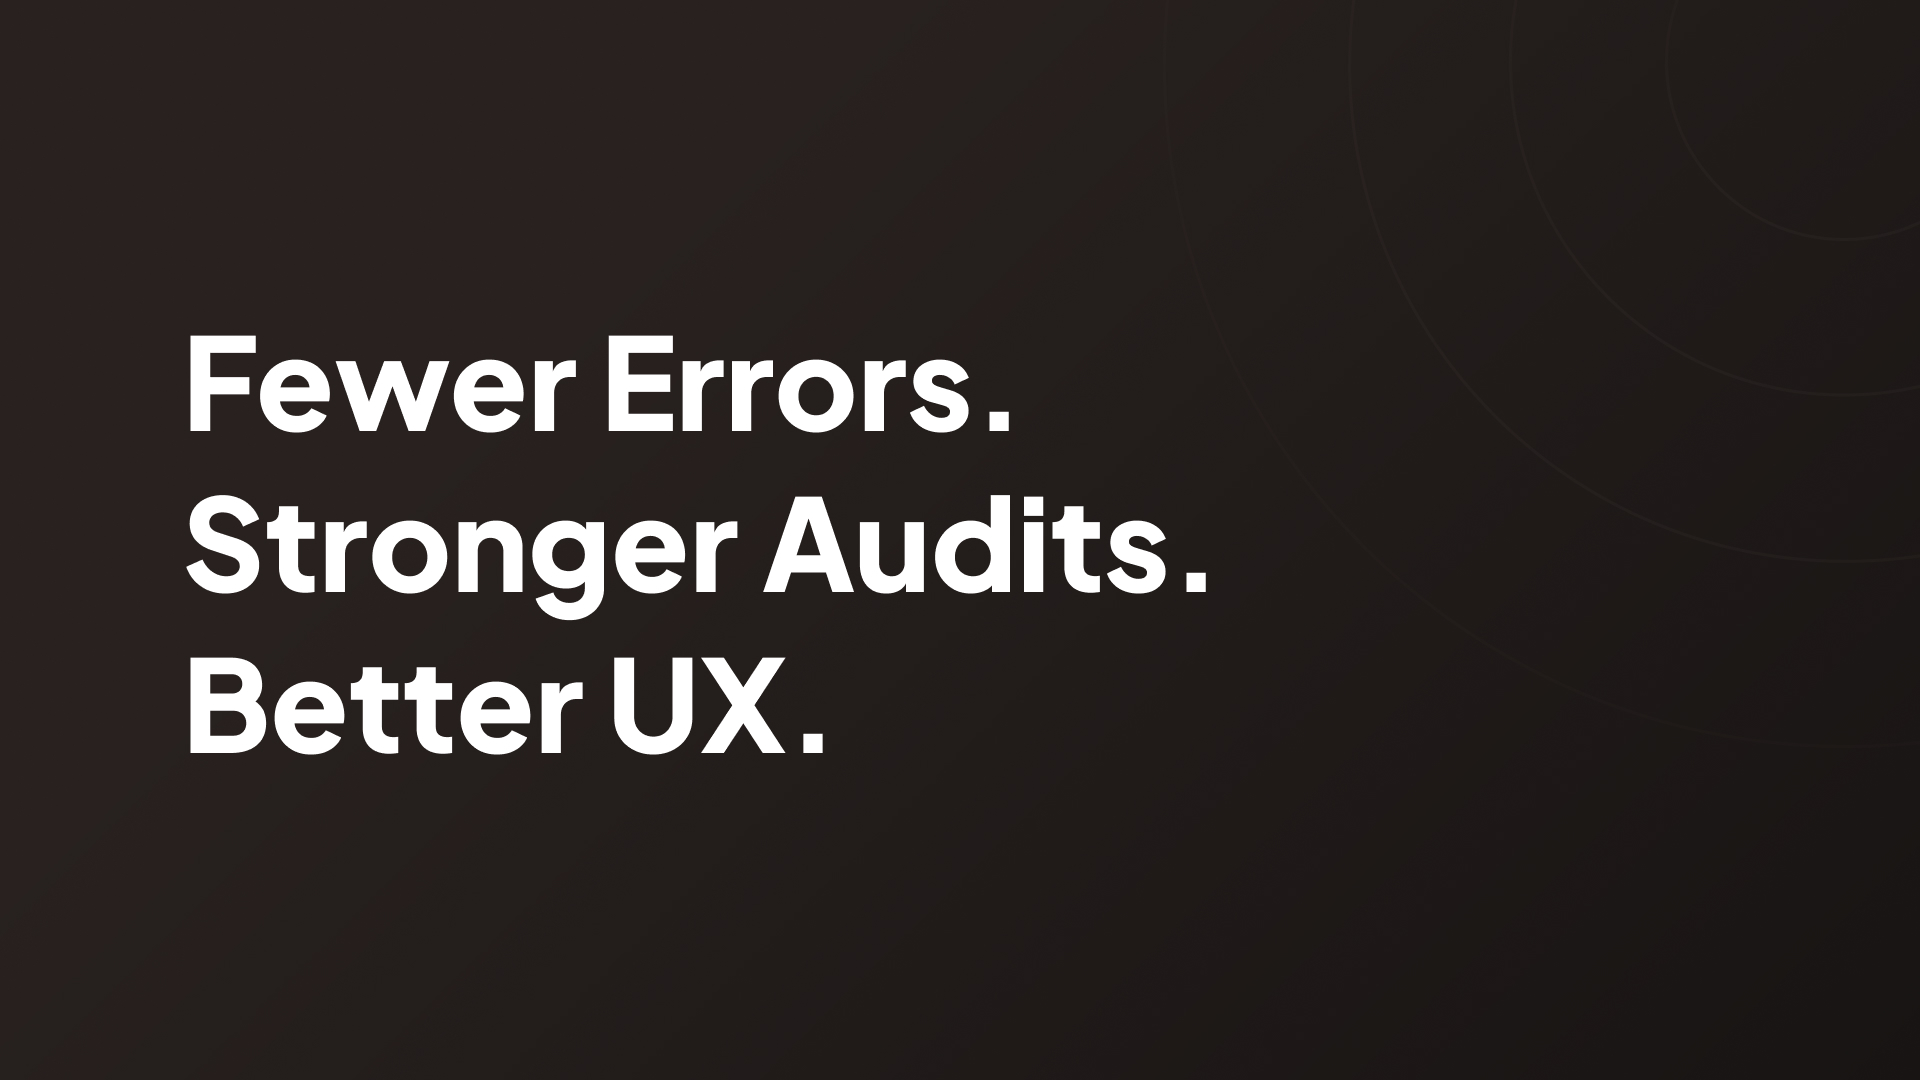
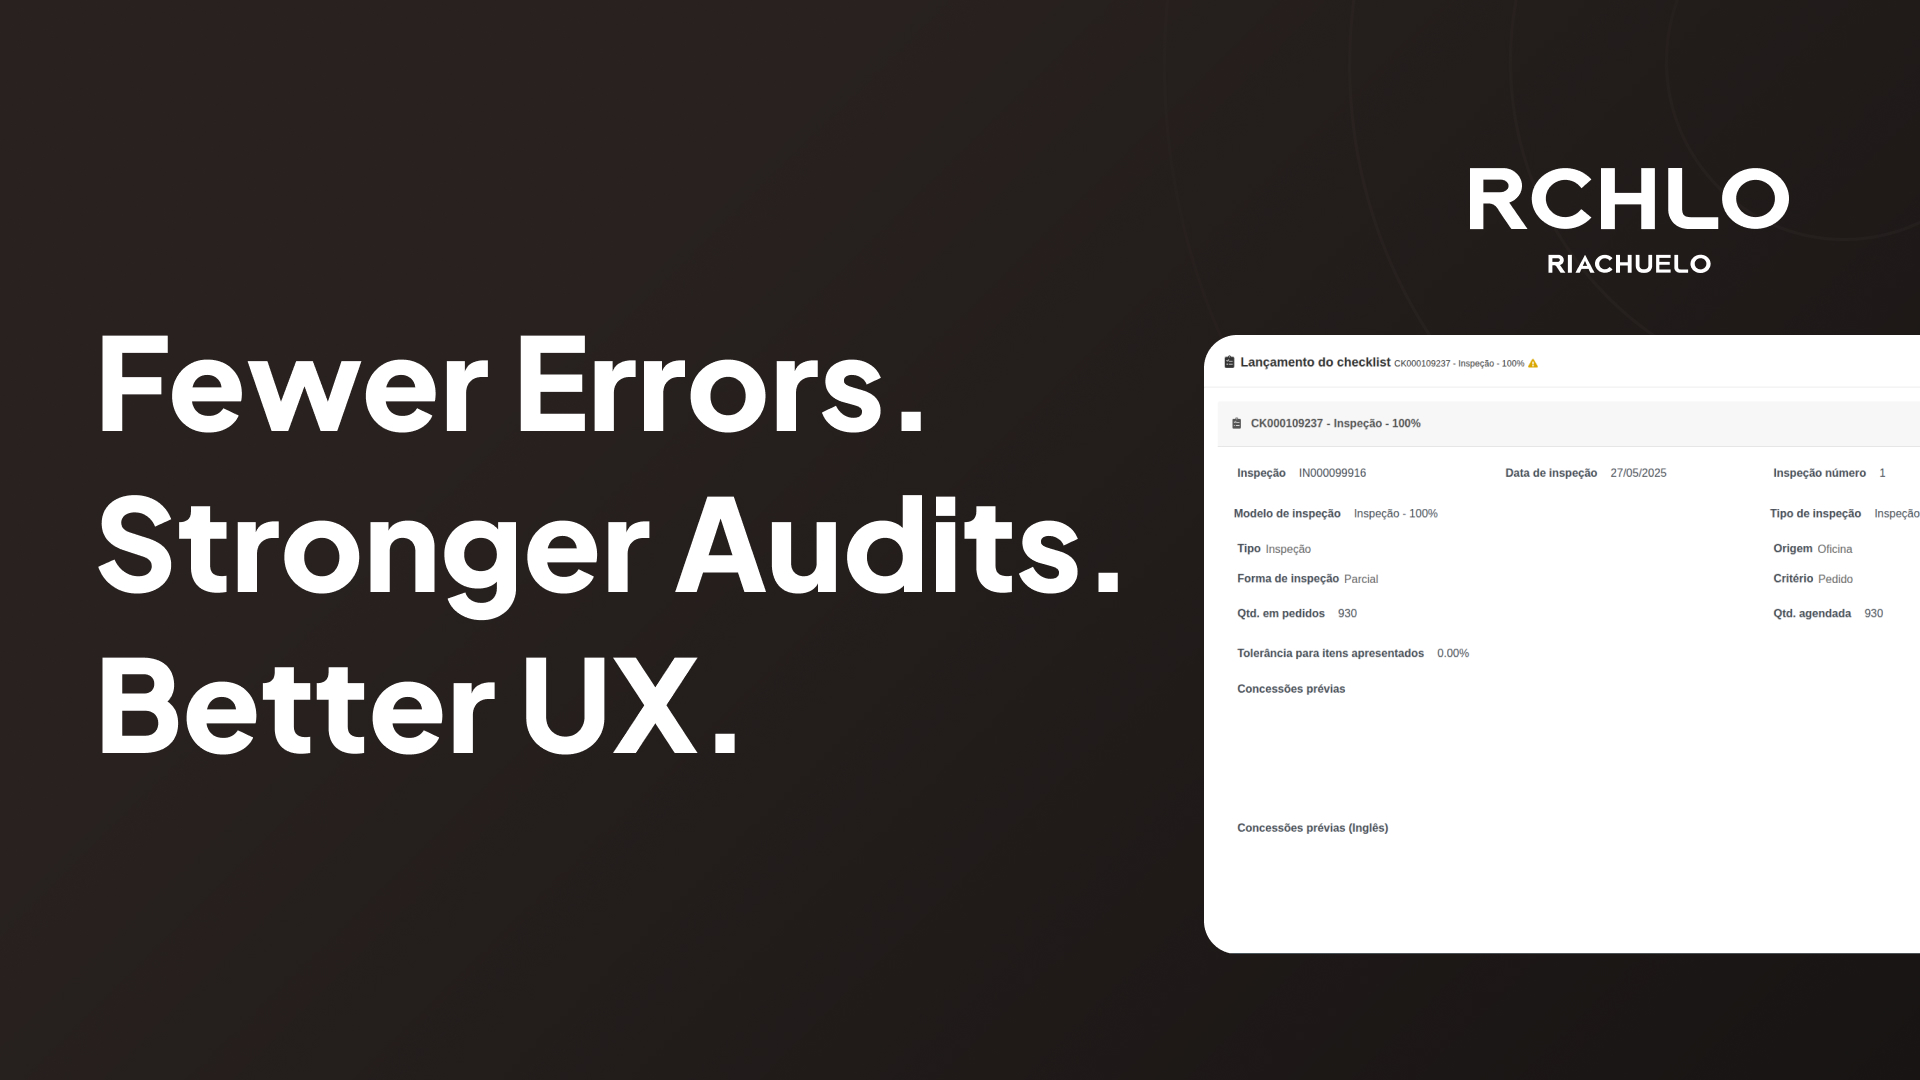
RCHLO Images

diff --git a/cases/rchlo.html b/cases/rchlo.html
@@ -251,9 +251,9 @@
           <li><strong>Illegible handwriting</strong> compromising data accuracy and decision-making.</li>
         </ul>
 
-        <div class="w-full h-64 bg-black/20 border border-white/10 rounded-2xl flex items-center justify-center text-gray-500">
-          PAPER PROCESS / LEGACY WORKFLOW IMAGE HERE
-        </div>
+        <div class="w-full h-180 bg-white/5 border border-white/10 rounded-2xl overflow-hidden flex items-center justify-center">
+        <img src="../imgs/RHCLO-before-after.jpg" alt="" srcset="">
+      </div>
       </div>
     </section>
 
